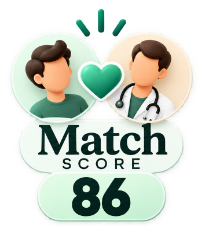
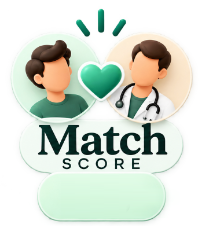
Fix calibración sello Growwly/Match Score + colores de Contactos por método (#104)
* Perfil clínica: reordena menú, rediseña sellos de score y visibilidad, gatea estadísticas de leads a PREMIUM

- Menú: Visibilidad pasa a estar antes que Estadísticas
- Growwly Score y Match Score: nuevos sellos gráficos (trofeo / match), sello más grande en el panel de clínica y tooltip "i" explicando qué mide
- Visibilidad: iconos reales (lucide) en vez de emojis + línea de beneficio en cada tarjeta de upgrade
- Estadísticas: las métricas de leads (recibidos, tasa de elección, gráfica y desglose por estado) quedan en una sección "Info PREMIUM" con vistas de ficha y contactos siempre visibles arriba; en básico se ven en gris/bloqueadas con CTA a Visibilidad

Claude-Session: https://claude.ai/code/session_01LDJe486sczaNLbqym9Vq58

* Reparto de leads: mínimo garantizado de 2/mes por clínica premium + Match Score de cobertura

- notificarClinicasDeSolicitud ya no ordena solo por un routingScore ciego: primero cubre a las clínicas "atrasadas" (menos de 2 leads este mes, desempatando por Match Score) y solo con los huecos que sobran compiten las que ya están al día, por Growwly Score puro
- Nueva columna solicitudes_presupuesto.match_score_paciente: cobertura real (min(candidatas, 5) x 20%), calculada una vez al repartir el lead en vez de derivarse mal más tarde del mejor match_score individual
- /cuenta/solicitud/[id] lee ese campo y actualiza el copy de "Tu Match Score" para reflejar cobertura, no calidad de encaje
[…]

Changed region(s): [[0.36, 0.7743, 0.66, 0.9602]]

diff --git a/src/app/admin/(panel)/estadisticas/page.tsx b/src/app/admin/(panel)/estadisticas/page.tsx
@@ -7,6 +7,7 @@ import { BarraCategoria } from "@/components/estadisticas/barra-categoria";
 import { FiltrosEstadisticasAdmin } from "@/components/estadisticas/filtros-estadisticas-admin";
 import { ESTADO_COLOR } from "@/lib/leads/estado-color";
 import type { EstadoLead } from "@/lib/leads/estados-lead";
+import { METODO_COLOR } from "@/lib/clinica/metodo-color";
 
 export const dynamic = "force-dynamic";
 
@@ -161,7 +162,7 @@ export default async function EstadisticasAdminPage({
                     etiqueta={METODO_LABEL[c.metodo] ?? c.metodo}
                     valor={c.total}
                     total={stats.contactosTotal}
-                    color="#25D366"
+                    color={METODO_COLOR[c.metodo] ?? "#25D366"}
                   />
                 ))}
               </div>

diff --git a/src/app/clinica/estadisticas/page.tsx b/src/app/clinica/estadisticas/page.tsx
@@ -15,6 +15,7 @@ import { BarraCategoria } from "@/components/estadisticas/barra-categoria";
 import { BloqueoPremium } from "@/components/estadisticas/bloqueo-premium";
 import { ESTADO_COLOR } from "@/lib/leads/estado-color";
 import type { EstadoLead } from "@/lib/leads/estados-lead";
+import { METODO_COLOR } from "@/lib/clinica/metodo-color";
 
 type SearchParams = { rango?: string };
 
@@ -166,7 +167,7 @@ export default async function EstadisticasClinicaPage({
                     etiqueta={METODO_LABEL[c.metodo] ?? c.metodo}
                     valor={c.total}
                     total={stats.contactosTotal}
-                    color="#25D366"
+                    color={METODO_COLOR[c.metodo] ?? "#25D366"}
                   />
                 ))}
               </div>

diff --git a/src/components/clinica/sello-growwly-score.tsx b/src/components/clinica/sello-growwly-score.tsx
@@ -26,8 +26,8 @@ export function SelloGrowwlyScore({ score }: { score: GrowwlyScore }) {
   const [infoAbierta, setInfoAbierta] = useState(false);
 
   return (
-    <div className="flex items-center gap-5 rounded-2xl bg-teal-dark p-5 md:w-[34%]">
-      <SelloScore tipo="growwly" valor={score.total} size={110} />
+    <div className="flex items-center gap-5 rounded-2xl bg-teal-dark p-3 md:w-[34%]">
+      <SelloScore tipo="growwly" valor={score.total} size={132} />
       <div className="min-w-0">
         <div className="flex items-start justify-between gap-2">
           <p className="font-display text-xl font-extrabold uppercase leading-tight text-orange">

diff --git a/src/components/ui/sello-score.tsx b/src/components/ui/sello-score.tsx
@@ -6,8 +6,8 @@ import Image from "next/image";
  * el real. Las posiciones son el centro de la píldora en cada imagen.
  */
 const SELLOS = {
-  match: { src: "/brand/sello-match-score.png", alt: "Match Score", x: 50.2, y: 78.3 },
-  growwly: { src: "/brand/sello-growwly-score.png", alt: "Growwly Score", x: 51, y: 78.5 },
+  match: { src: "/brand/sello-match-score.png", alt: "Match Score", x: 50.5, y: 87 },
+  growwly: { src: "/brand/sello-growwly-score.png", alt: "Growwly Score", x: 50.3, y: 87 },
 } as const;
 
 export function SelloScore({

diff --git a/src/lib/clinica/metodo-color.ts b/src/lib/clinica/metodo-color.ts
@@ -1,0 +1,13 @@
+/**
+ * Mismo color que usa cada CTA de contacto en la ficha pública — así
+ * "Contactos por método" en estadísticas se reconoce de un vistazo,
+ * igual que hicimos con ESTADO_COLOR para los leads.
+ */
+export const METODO_COLOR: Record<string, string> = {
+  llamar: "#1f5568",
+  whatsapp: "#25D366",
+  web: "#00c2d6",
+  ver_mapa: "#00c2d6",
+  reserva_online: "#00768f",
+  pedir_cita: "#e8ef2d",
+};
